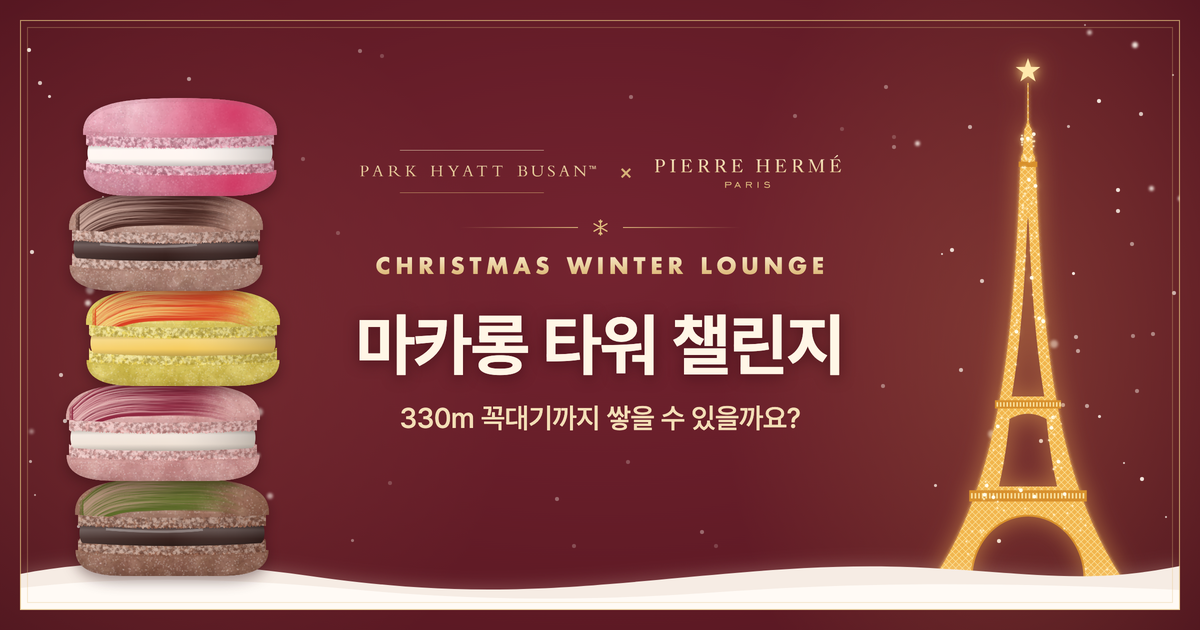
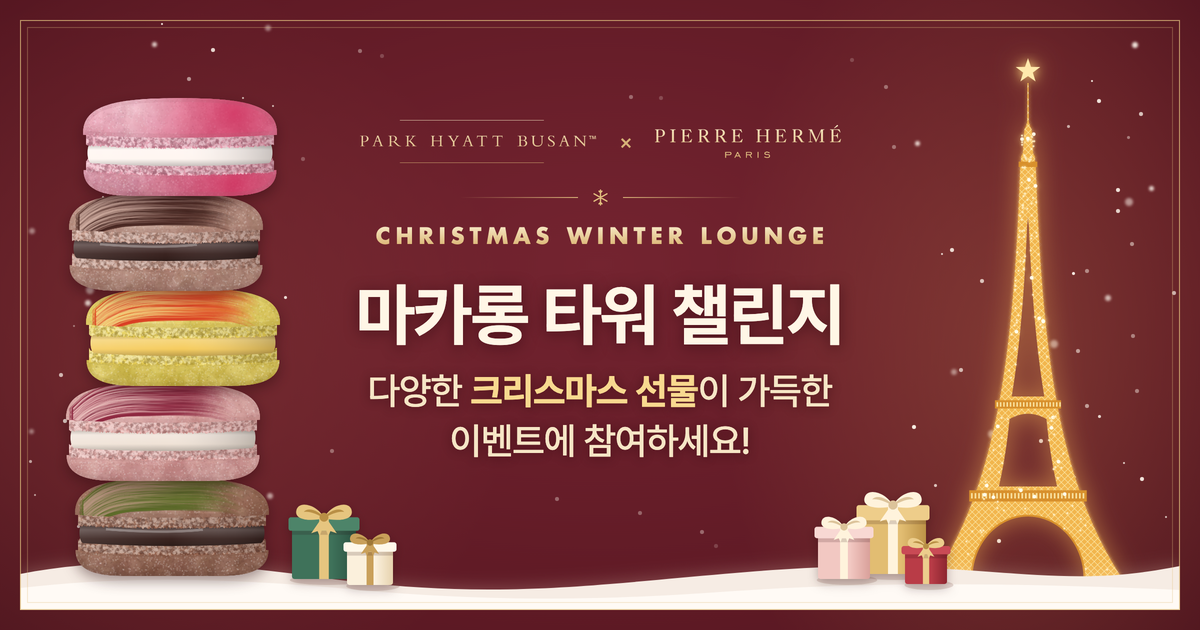
카카오톡 썸네일에 크리스마스 선물 문구와 선물 상자, 경품 장면 안내 문구를 낱말로 끝나게
- 썸네일: '다양한 크리스마스 선물이 가득한 / 이벤트에 참여하세요!' 두 줄, 눈 위 선물 상자
- 경품 장면 아래 안내: 인원, 순위 선정, 동점 기준, 당첨자 발표 네 줄

diff --git a/index.html b/index.html
@@ -9,7 +9,7 @@
 <meta property="og:title" content="마카롱 타워 챌린지">
 <meta property="og:description" content="파크 하얏트 부산과 피에르 에르메의 크리스마스 윈터 라운지 이벤트">
 <meta property="og:url" content="https://macaron-eiffel.vercel.app/">
-<meta property="og:image" content="https://macaron-eiffel.vercel.app/og.png?v=202611191208">
+<meta property="og:image" content="https://macaron-eiffel.vercel.app/og.png?v=202611191247">
 <meta property="og:image:width" content="1200">
 <meta property="og:image:height" content="630">
 <meta name="twitter:card" content="summary_large_image">
@@ -440,7 +440,7 @@ kbd:first-child{margin-left:0}
       <h2 class="sp-pz-title sp-a" style="--i:1">마카롱 타워 챌린지</h2>
       <dl class="sp-pz-meta sp-a" style="--i:2"><div><dt>행사 기간</dt><dd>2026. 11. 26 ~ 12. 25</dd></div><div><dt>참가 대상</dt><dd>에펠탑 꼭대기 330m를 달성한 분</dd></div></dl>
       <dl class="sp-pz-list sp-a" style="--i:3"><div><dt>1등</dt><dd>오션뷰 객실 1박 및 2인 조식 숙박권 1매</dd></div><div><dt>2등</dt><dd>다이닝룸 주말 런치 뷔페 2인 식사권 1매</dd></div><div><dt>3등</dt><dd>리빙룸 디너 4코스 2인 식사권 1매</dd></div><div><dt>4등</dt><dd>피에르 에르메 애프터눈 티세트 이용권 1매</dd></div><div><dt>5등</dt><dd>크리스마스 케이크 교환권 1매</dd></div><div><dt>6등</dt><dd>크리스마스 케이크 교환권 1매</dd></div><div><dt>7등</dt><dd>파티세리 테이크아웃 커피 1인 2잔</dd></div></dl>
-      <ul class="sp-pz-notes sp-a" style="--i:4"><li>1등부터 6등은 각 1명, 7등은 20명이에요.</li><li>순위는 행사 기간 중 개인 최고 기록 순이에요. 기록이 같으면 먼저 기록한 분이 앞서요.</li><li>당첨자는 12월 30일에 개별 문자로 안내해요.</li></ul>
+      <ul class="sp-pz-notes sp-a" style="--i:4"><li>1등부터 6등 각 1명, 7등 20명</li><li>순위 선정: 행사 기간 중 개인 최고 기록 기준</li><li>동점 기준: 먼저 기록한 참가자 우선</li><li>당첨자 발표: 12월 30일, 개별 문자 안내</li></ul>
     </div>
   </div>
   <div class="sp-foot"><span class="sp-dots" aria-hidden="true"><i></i><i></i><i></i><i></i><i></i><i></i></span><button class="sp-skip" type="button">건너뛰기</button></div>
